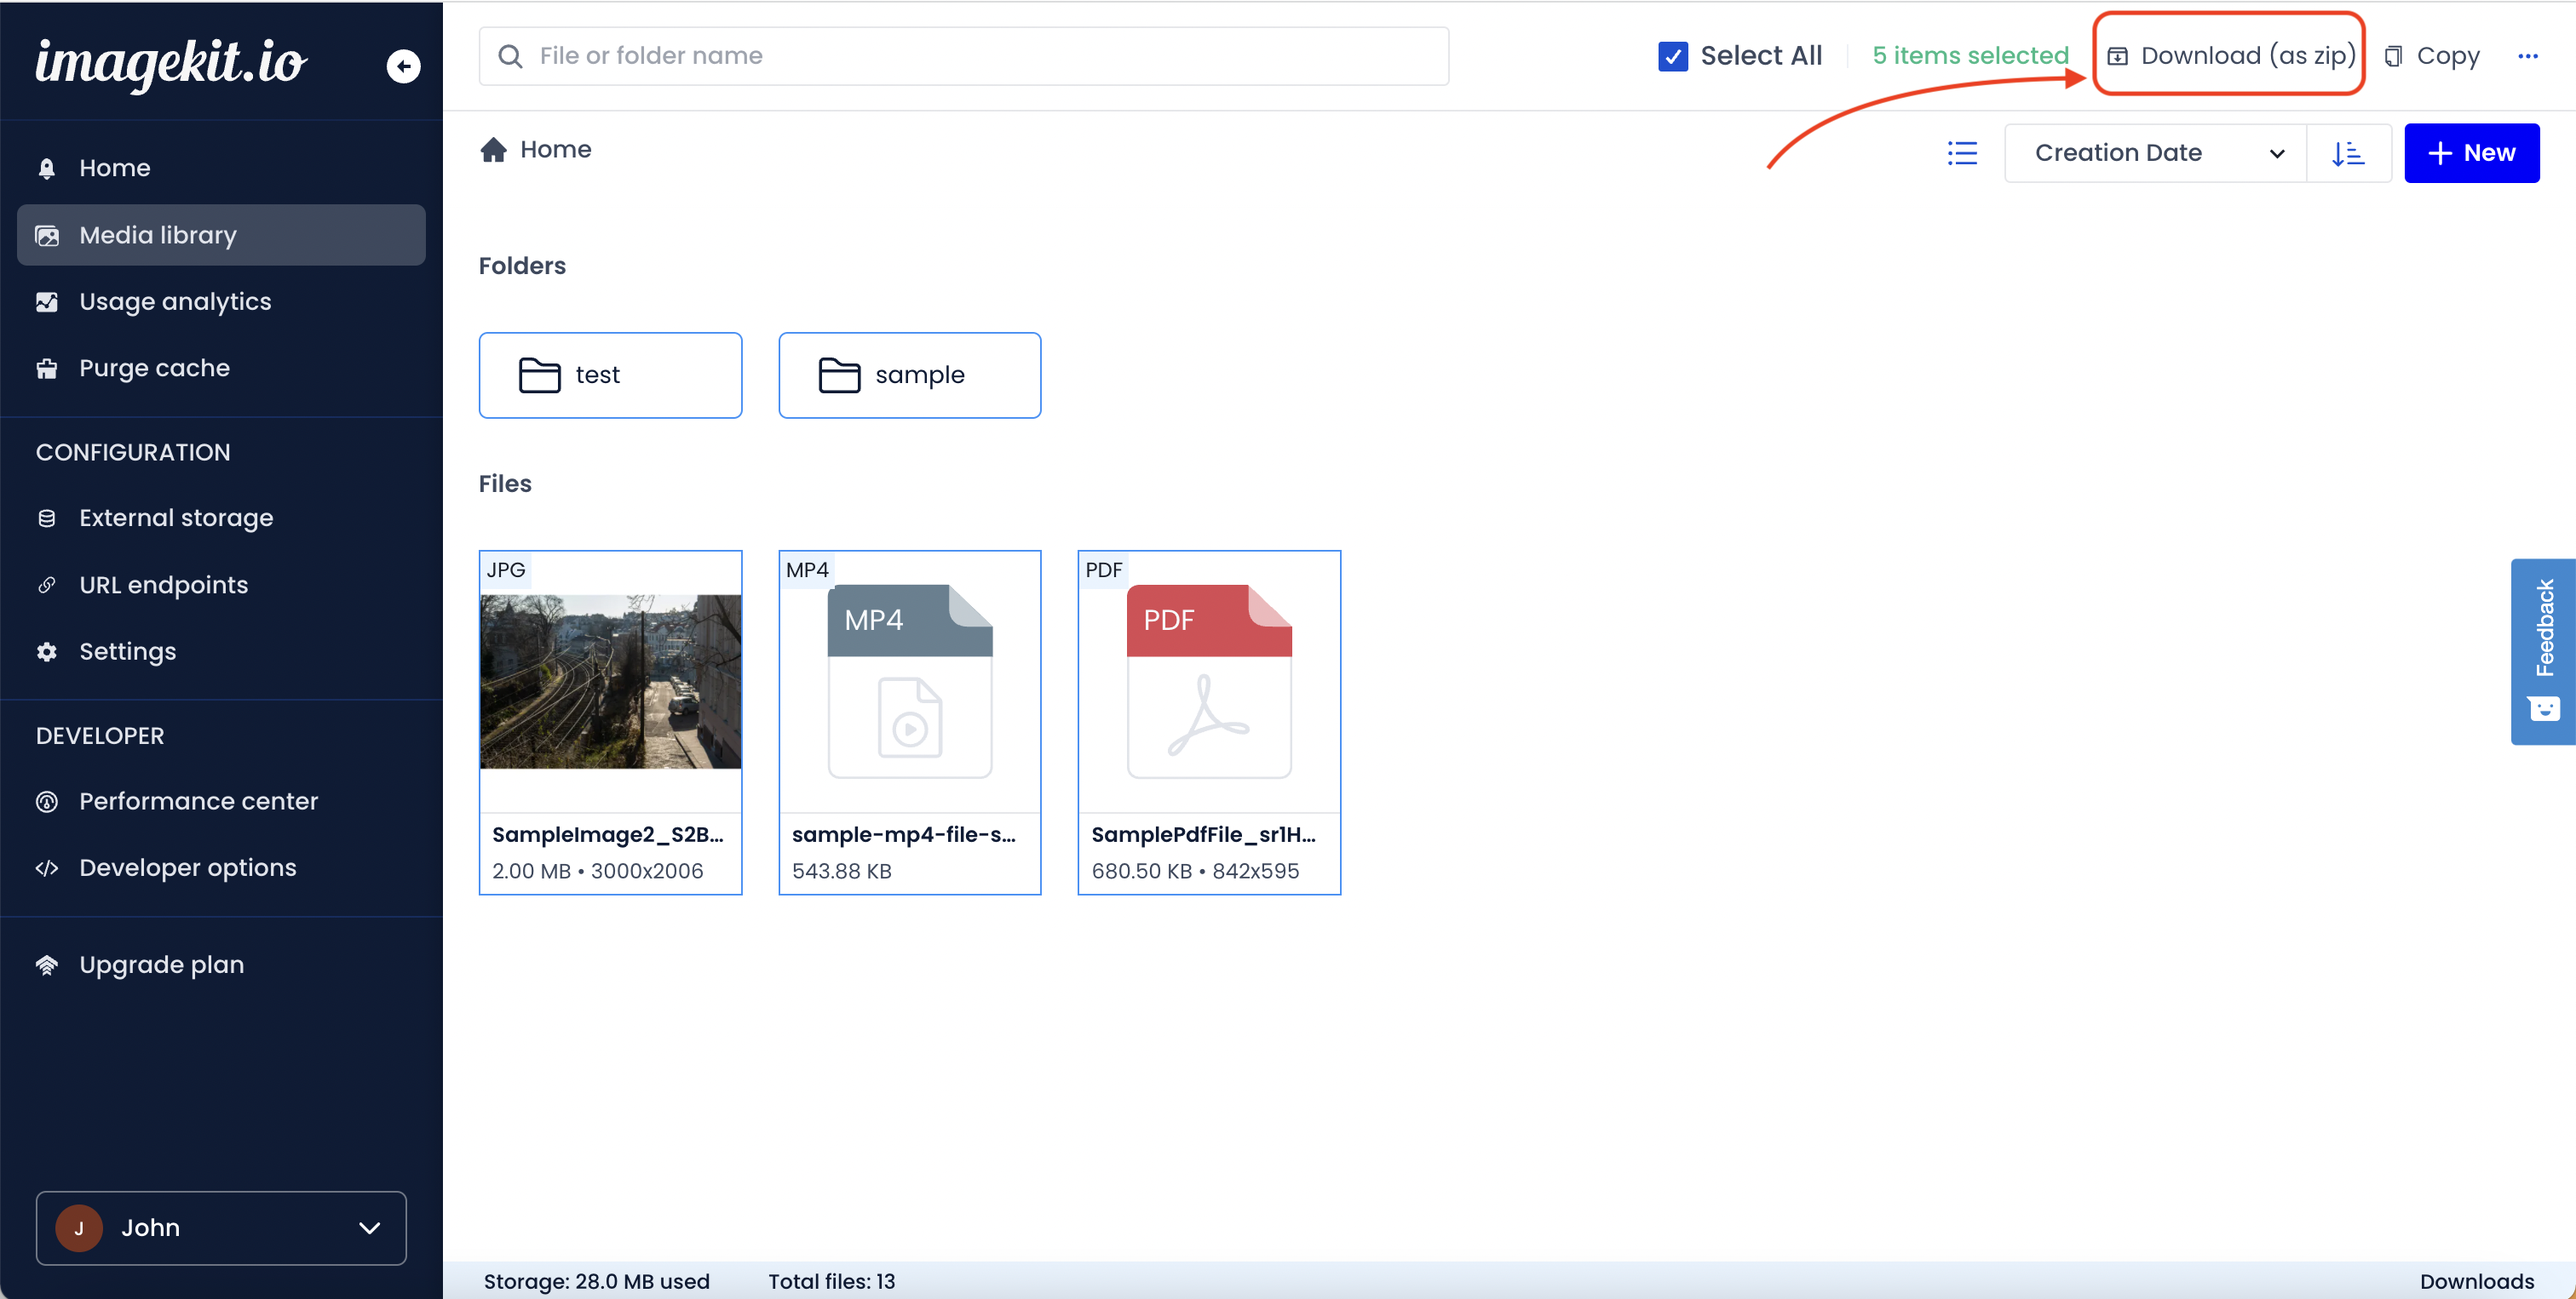
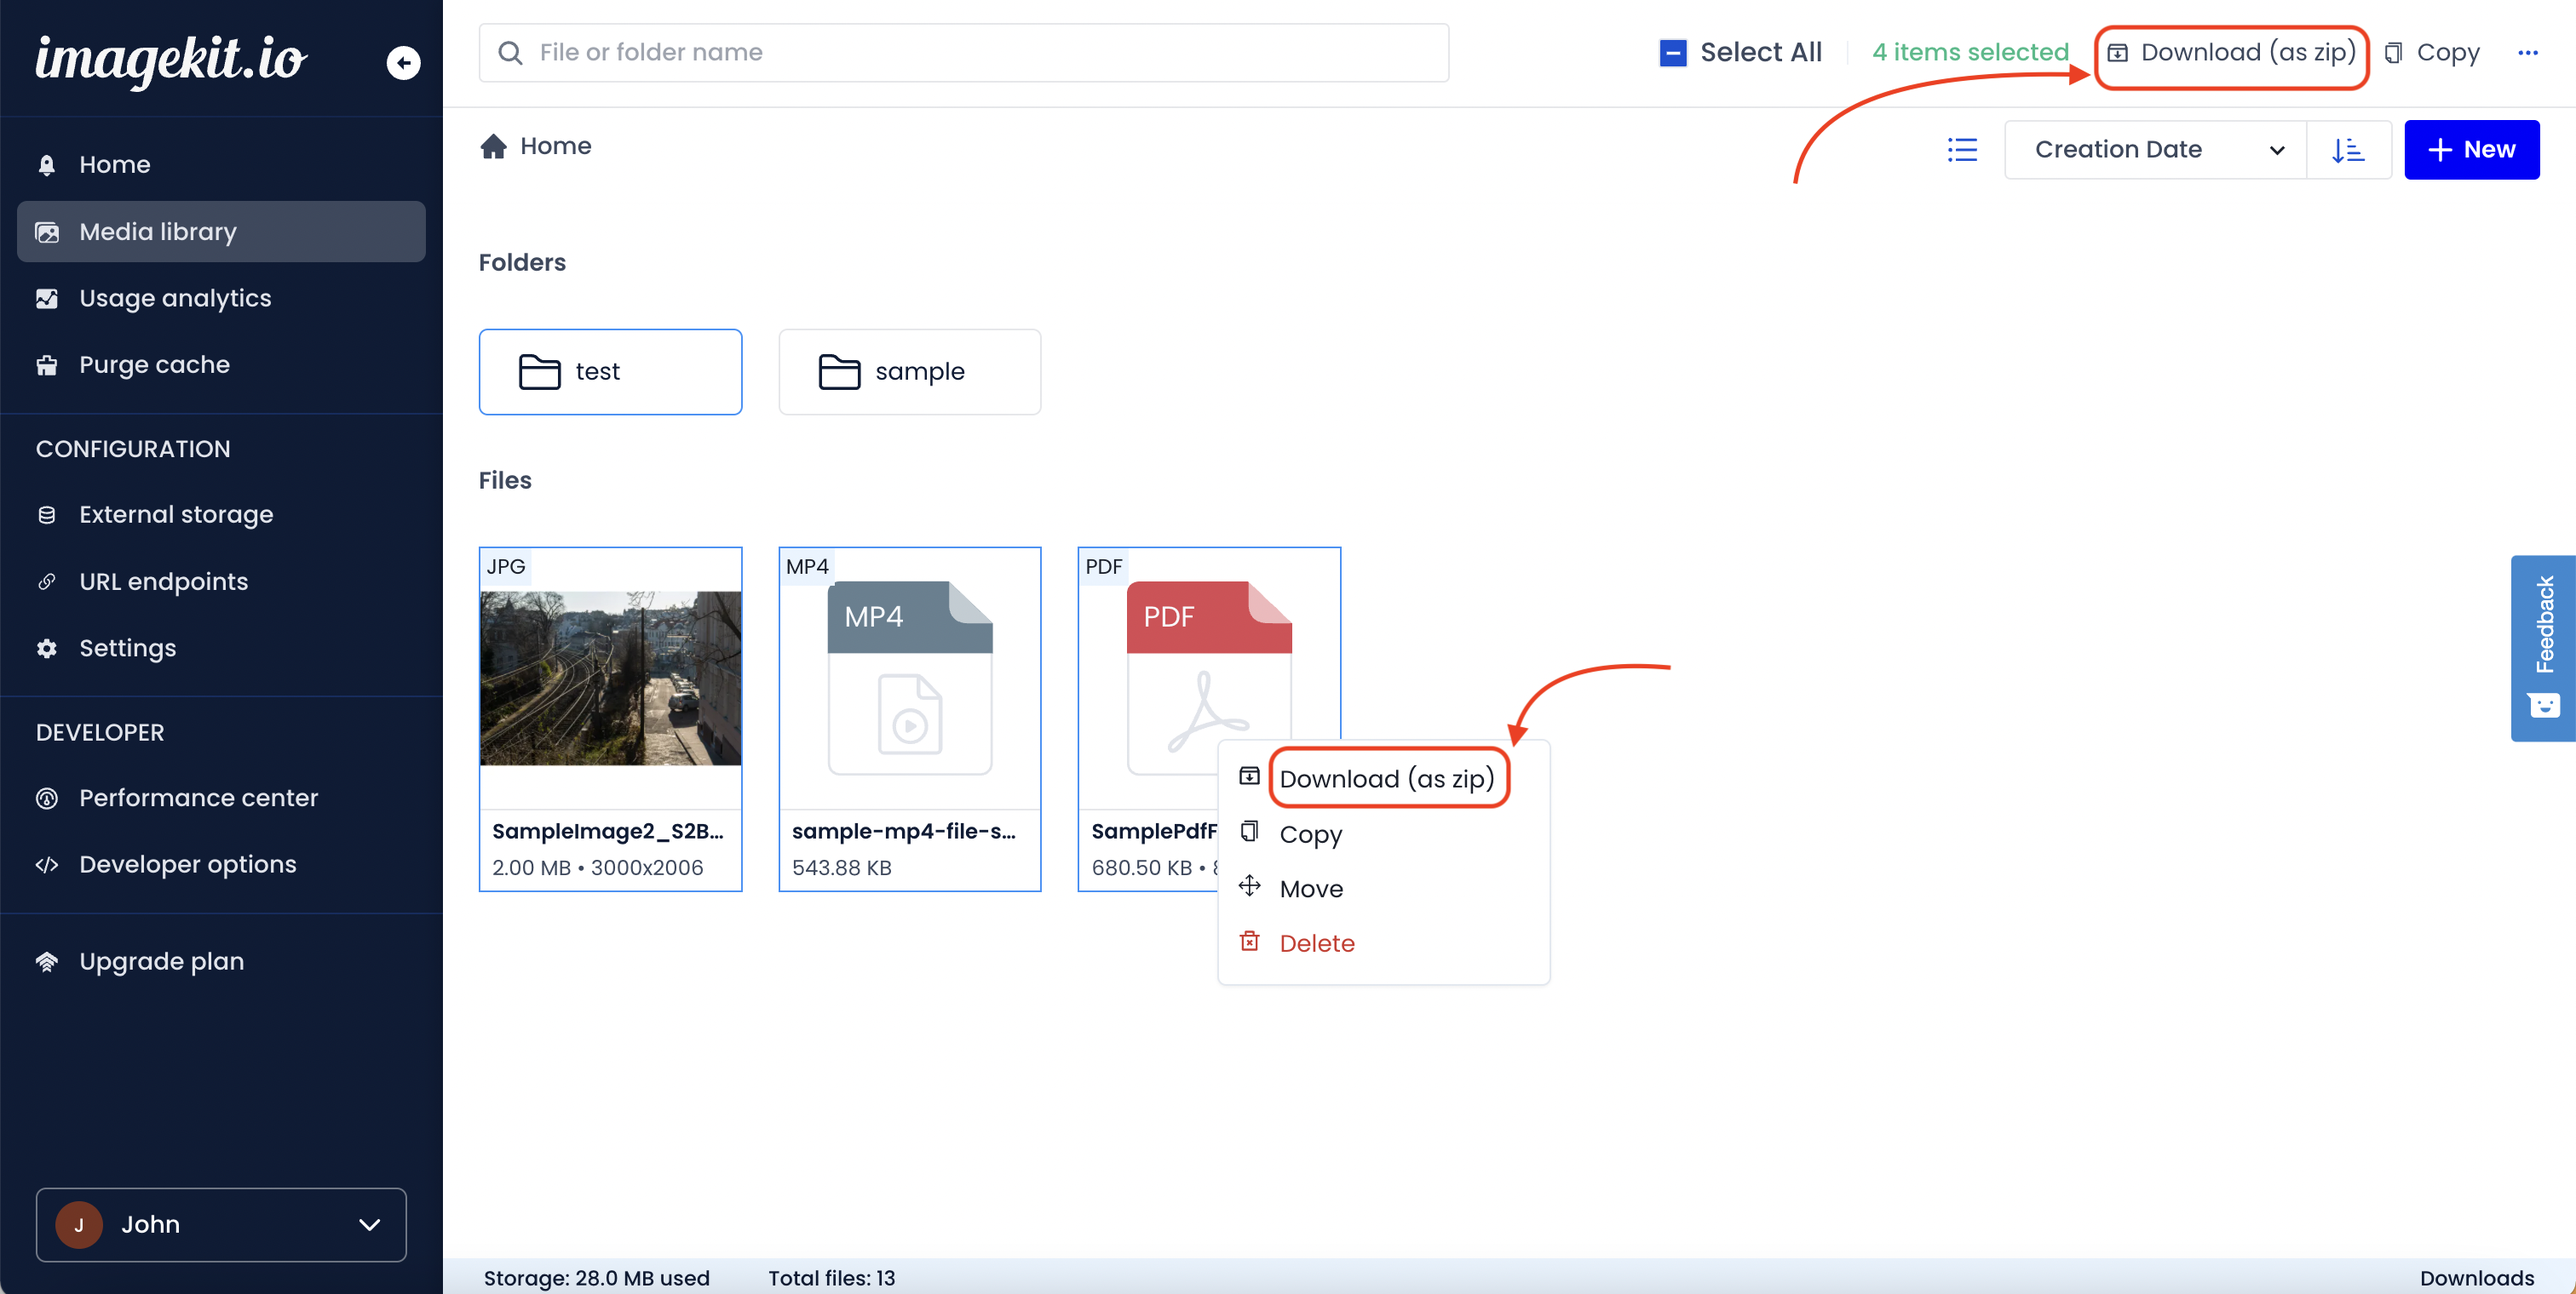
download as zip fixes 2

diff --git a/media-library/overview/download-media-library-assets-as-zip.md b/media-library/overview/download-media-library-assets-as-zip.md
@@ -1,33 +1,39 @@
 # Download media library assets as a zip 
 
-You can select and download multiple files, folders and all of their contents including any sub-folders as a single zip file. The downloaded zip maintains the original folder structure.
+You can select and download multiple files, folders, and all of their contents, including any sub-folders as a single zip file. The downloaded zip maintains the original folder structure.
 
 {% hint style="info" %}
 **maximum size limit**\
-The maximum number of files you can download is limited to 300.
-The maximum total size of the files you can download is limited to 1 GB.
+The maximum number of files and folders you can download is limited to 300.
+Also, the total size of the files you can download is limited to 1 GB.
 {% endhint %}
 
-## How to start downloading ?
+## How to start downloading?
 
-Go to your media library on Imagekit dashboard and select multiple files or folders using ( command + click ), as soon as multiple files or folders are selected, "Download (as zip)" option is available on the context menu. 
+Go to your media library on the Imagekit dashboard and select multiple files or folders using command + click ( for Mac users ). As soon as multiple files or folders are selected, the "Download (as zip)" option is available on the context menu. 
 
 ![Download (as zip) option in context menu](<../../.gitbook/assets/download-as-zip-context-menu.png>)
 
-As soon as you click on "Download (as zip)" option, A dialog box appears that allows you to apply transformation on all the images in selected files and folders. All other files ( ex. videos, text files etc. ) are not modified. This could be useful for the marketing team allowing them to create a particular dimension variant for all images inside a folder. 
+As soon as you click on the "Download (as zip)" option, A dialog box appears that allows you to apply a transformation on all the images in selected files and folders. All other files (e.g., videos, text files,  etc. ) are not modified. This feature could be helpful for the marketing team, allowing them to create a particular dimension variant for all images inside a folder. 
 
 ![Transformation dialog box](<../../.gitbook/assets/download-as-zip-transformation-modal.png>)
 
-By clicking on "Submit", the download process begins and the zip file gets automatically downloaded.
+By clicking on "Submit", the zip generation begins. The status of download requests being processed appears in the bottom panel. Once the zip file is successfully generated, it automatically starts downloading.
+You can navigate out of the media library and carry on with other tasks without waiting while your download requests are being processed. Later, you can go to the downloads section to download your zip files.
 
-You can go to the downloads section by simply clicking on the "Downloads" in the panel at the bottom of your media library. 
+For visiting the downloads section, click on the "Downloads" in the panel at the bottom of your media library. 
 
 ![Downlaods button in media library bottom panel](<../../.gitbook/assets/download-as-zip-bottom-panel.png>)
 
-Here you can view the basic information about all your zip file downloads such as name, creation time, file count, folder count of zip file upto past 7 days. You can search, sort on the basis name, time etc. You can also download your zip file again using the link provided in the table.
+Here you can view the basic information about all your zip file downloads like name, creation time, file count, folder count of zip file up to the past seven days. You can search or sort based on name, time, etc. You can also download your zip file again using the link provided in the table.
 
 ![Downloads section](<../../.gitbook/assets/download-as-zip-download-table.png>)
 
-Still having problems in understanding how this feature works, here is a complete demonstration on how to download as zip:
+{% hint style="info" %}
+**Download link validity**\
+The download link generated is valid up to seven days from the time of zip generation.
+{% endhint %}
+
+Still having problems in understanding how this feature works, here is a complete demonstration on how to download media file assets as a zip file:
 
 ![Video demonstration of download (as zip) feature](<../../.gitbook/assets/download-as-zip-demonstration.mov>)
